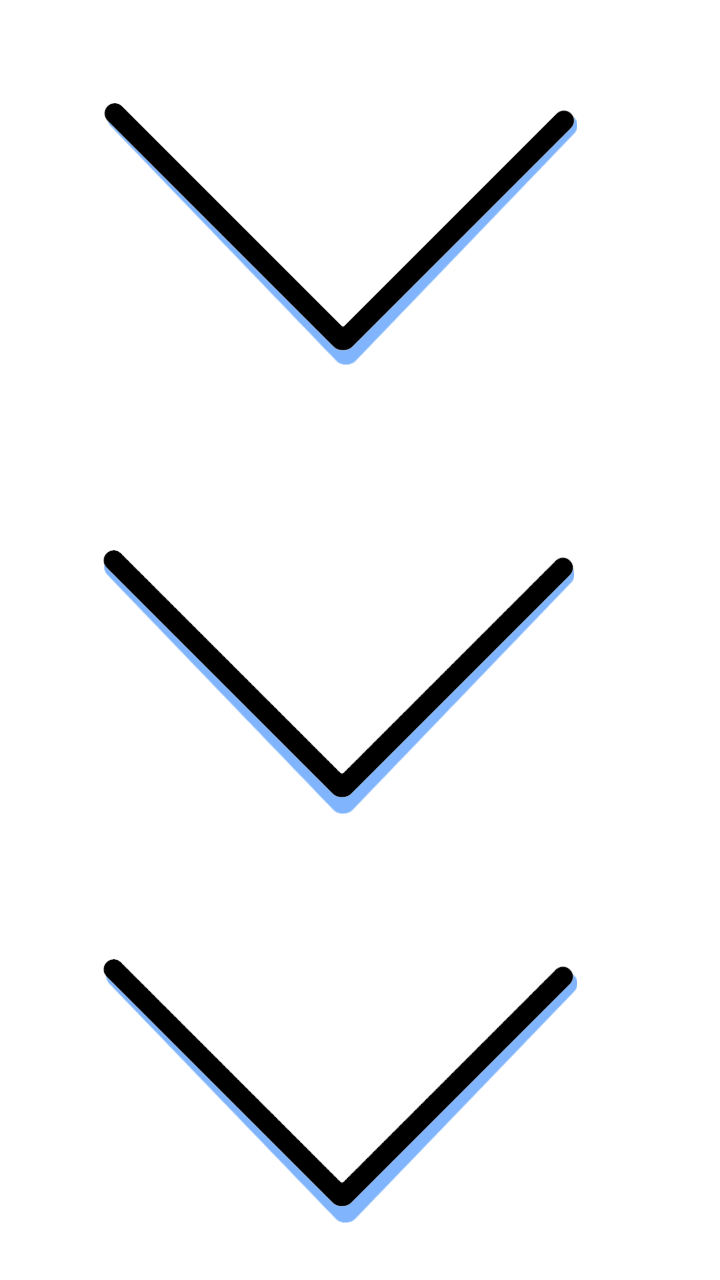
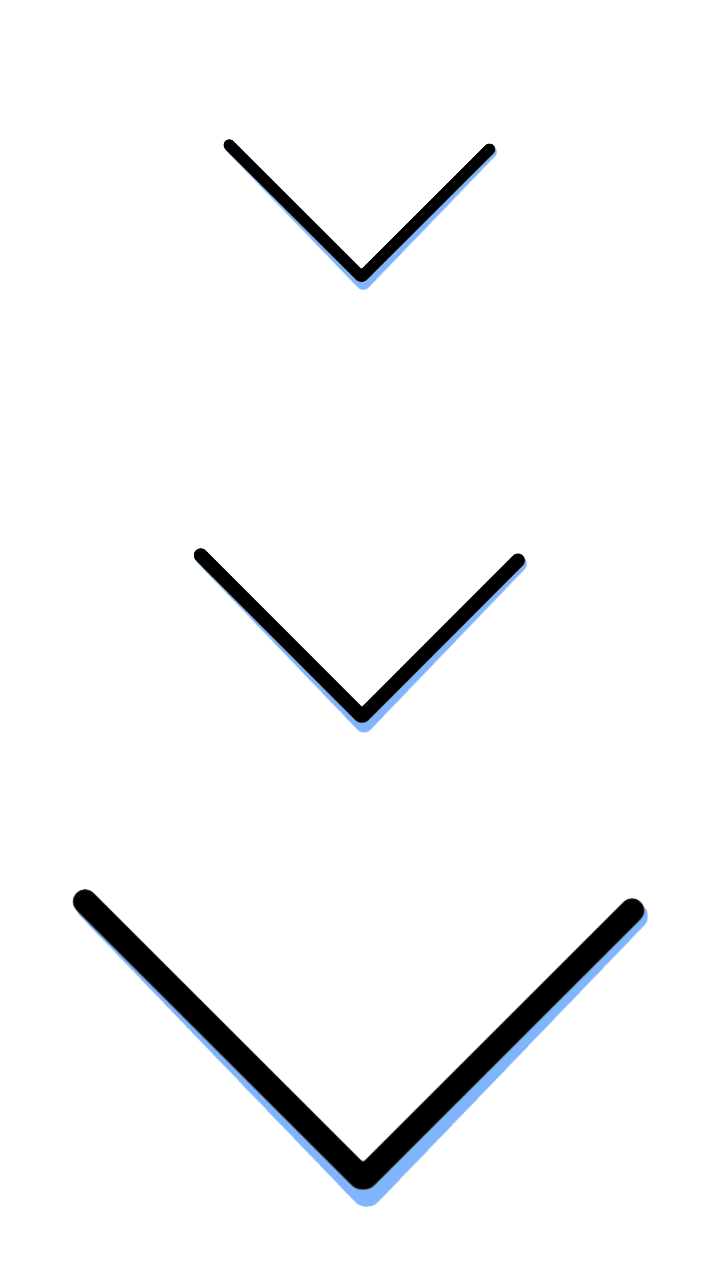
Index

diff --git a/index.html b/index.html
@@ -1,48 +1,164 @@
 <!DOCTYPE html>
 <html lang="en">
-<head>
-    <meta charset="UTF-8">
-    <meta http-equiv="X-UA-Compatible" content="IE=edge">
-    <meta name="viewport" content="width=device-width, initial-scale=1.0">
+  <head>
+    <meta charset="UTF-8" />
+    <meta http-equiv="X-UA-Compatible" content="IE=edge" />
+    <meta name="viewport" content="width=device-width, initial-scale=1.0" />
     <title>Document</title>
     <link href="./node_modules/bootstrap/dist/css/bootstrap.min.css" rel="stylesheet"/>
-</head>
-<body>
+    <link rel="stylesheet" href="./node_modules/animate.css/animate.min.css">
+  </head>
+  <body>
     <!--Navbar-->
     <div class="row mb-2">
-        <nav class="navbar navbar-expand-lg navbar-light bg-light fixed-top">
-            <a class="navbar-brand " href="#"> <span class="p-5 font-weight-bold">JR</span> </a>
-            <button class="navbar-toggler me-5 mt-2" type="button" data-bs-toggle="collapse" data-bs-target="#navbar-elements" aria-controls="navbarNavAltMarkup" aria-expanded="false" aria-label="Toggle navigation">
-              <span class="navbar-toggler-icon"></span>
-            </button>
-    
-            <div class="collapse navbar-collapse justify-content-center" id="navbar-elements">
-              <div class="navbar-nav">
-                <a class="nav-item nav-link active" href="#">Home</a>
-                <a class="nav-item nav-link" href="#">Projects</a>
-                <a class="nav-item nav-link" href="#">Blog</a>
-                <a class="nav-item nav-link" href="#">About</a>
-                <a class="nav-item nav-link" href="#">Contact</a>
-              </div>
-            </div>
-          </nav>
+      <nav class="navbar navbar-expand-lg navbar-light bg-light fixed-top">
+        <a class="navbar-brand" href="#">
+          <span class="p-5 font-weight-bold">JR</span>
+        </a>
+        <button
+          class="navbar-toggler me-5 mt-2"
+          type="button"
+          data-bs-toggle="collapse"
+          data-bs-target="#navbar-elements"
+          aria-controls="navbarNavAltMarkup"
+          aria-expanded="false"
+          aria-label="Toggle navigation"
+        >
+          <span class="navbar-toggler-icon"></span>
+        </button>
+
+        <div
+          class="collapse navbar-collapse justify-content-center"
+          id="navbar-elements"
+        >
+          <div class="navbar-nav ps-2 col-3">
+            <a class="nav-item nav-link active" href="#"><span class="text-primary"><u>Home</u></span></a>
+            <a class="nav-item nav-link" href="#">Projects</a>
+            <a class="nav-item nav-link" href="#">Blog</a>
+            <a class="nav-item nav-link" href="#">About</a>
+            <a class="nav-item nav-link" href="#">Contact</a>
+          </div>
+        </div>
+      </nav>
     </div>
     <!--Main info-->
     <div class="container mt-5">
-                <div class="row py-5">
-                    <div class="col-md-6 my-5 py-5 d-flex align-items-center justify-content-center">
-                        <h1>&lt;p&gt; Bienvenido &lt;/p&gt;</h1>
-                    </div>
-                    <div class="col-md-6 text-center">
-                        <img src="imgs/profile.png" class="img-fluid"alt="">
-                    </div>
-                
-            </div>
-            
+      <div class="row py-5">
+        <div
+          class="col-md-6 my-5 py-5 d-flex align-items-center justify-content-center"
+        >
+          <h1>&lt;p&gt; Bienvenido &lt;/p&gt;</h1>
+        </div>
+        <div class="col-md-6 text-center">
+          <img src="imgs/profile.png" class="img-fluid animate__animated animate__fadeIn animate__delay-1s" data-toogle="animation" data-animation-start="onHover" data-animation-reset="true" data-animation="slide-right" alt="" />
+        </div>
+      </div>
     </div>
-      
-      
+
+    <!--flechas-->
+    <div class="container">
+      <div class="row">
+        <div class="col-md-6 text-center">
+          <img src="imgs/flechas.png" class="img-fluid w-50 animate__animated animate__slideInDown animate__slow" alt="" />
+        </div>
+        <div class="col-md-6"></div>
+      </div>
+    </div>
+
+    <!--About me-->
+    <div class="container">
+      <div class="row">
+        <div class="col-md-7 my-5">
+          <h1>About me...</h1>
+          <hr />
+          <p>
+            Lorem ipsum dolor sit amet, consectetur adipiscing elit. Proin id
+            placerat nunc. Suspendisse ultricies pharetra dolor, faucibus
+            bibendum arcu aliquam nec. Fusce mi justo, luctus ut justo vel,
+            mollis condimentum turpis. Quisque egestas venenatis tellus, quis
+            egestas risus rutrum at. Ut eget ligula nibh. Sed quis ex quam.
+            Aenean tempor semper nunc. Duis purus dui, consectetur semper
+            gravida nec, luctus ut nisl. Maecenas fermentum lobortis nibh, id
+            mollis mauris. Etiam placerat gravida sem, eu consequat tortor porta
+            vel. Nunc vel orci consectetur, pretium libero non, eleifend felis.
+            Morbi blandit nulla non accumsan dictum. Aliquam turpis risus,
+            tristique sed turpis sed, efficitur finibus risus. Vivamus augue
+            justo, ornare ac sollicitudin sed, mattis sit amet justo. Phasellus
+            vitae justo consequat augue porttitor consectetur.
+          </p>
+        </div>
+      </div>
+    </div>
+
+    <div class="container">
+      <div class="row">
+        <div class="col-md-5"></div>
+        <div class="col-md-7">
+          <img src="imgs/paisajes.jpg" class="rounded img-fluid" alt="" />
+        </div>
+      </div>
+    </div>
+
+    <div class="container">
+      <div class="row">
+        <div class="col-md-7 my-5">
+          <p>
+            <span><h1>1.</h1></span> Lorem ipsum dolor sit amet, consectetur
+            adipiscing elit. Proin id placerat nunc. Suspendisse ultricies
+            pharetra dolor, faucibus bibendum arcu aliquam nec. Fusce mi justo,
+            luctus ut justo vel, mollis condimentum turpis. Quisque egestas
+            venenatis tellus, quis egestas risus rutrum at. Ut eget ligula nibh.
+            Sed quis ex quam. Aenean tempor semper nunc. Duis purus dui,
+            consectetur semper gravida nec, luctus ut nisl. <br /><br />
+            <span><h1>2.</h1></span> Lorem ipsum dolor sit amet, consectetur
+            adipiscing elit. Proin id placerat nunc. Suspendisse ultricies
+            pharetra dolor, faucibus bibendum arcu aliquam nec. Fusce mi justo,
+            luctus ut justo vel, mollis condimentum turpis. Quisque egestas
+            venenatis tellus, quis egestas risus rutrum at. Ut eget ligula nibh.
+            Sed quis ex quam. Aenean tempor semper nunc. Duis purus dui,
+            consectetur semper gravida nec, luctus ut nisl. <br /><br />
+            <span><h1>3.</h1></span> Lorem ipsum dolor sit amet, consectetur
+            adipiscing elit. Proin id placerat nunc. Suspendisse ultricies
+            pharetra dolor, faucibus bibendum arcu aliquam nec. Fusce mi justo,
+            luctus ut justo vel, mollis condimentum turpis. Quisque egestas
+            venenatis tellus, quis egestas risus rutrum at. Ut eget ligula nibh.
+            Sed quis ex quam. Aenean tempor semper nunc. Duis purus dui,
+            consectetur semper gravida nec, luctus ut nisl.
+          </p>
+        </div>
+      </div>
+    </div>
+
+    <!-- Footer -->
+    <footer
+      class="text-center text-white mt-5"
+      style="background-color: #0a4275"
+    >
+      <!-- Grid container -->
+      <div class="container p-4 pb-0">
+        <!-- Section: CTA -->
+        <section class="">
+          <p class="d-flex justify-content-center align-items-center">
+            <span class="me-3">Footer</span>
+            <button
+              data-mdb-ripple-init
+              type="button"
+              class="btn btn-outline-light btn-rounded">
+              Sign up!
+            </button>
+          </p>
+        </section>
+      </div>
+
+      <!-- Copyright -->
+      <div class="text-center p-3" style="background-color: rgba(0, 0, 0, 0.2)">
+        © 2024 Copyright: Joselito
+      </div>
+      <!-- Copyright -->
+    </footer>
+    <!-- Footer -->
+
     <!-- Antes de cerrar el body de tu HTML -->
     <script src="./node_modules/bootstrap/dist/js/bootstrap.bundle.min.js"></script>
-</body>
+  </body>
 </html>

diff --git a/animacion.html b/animacion.html
@@ -1,0 +1,22 @@
+<!DOCTYPE html>
+<html lang="en">
+<head>
+  <meta charset="UTF-8">
+  <meta name="viewport" content="width=device-width, initial-scale=1.0">
+  <title>Bootstrap Image Animation</title>
+  <!-- Bootstrap CSS -->
+  <link rel="stylesheet" href="https://stackpath.bootstrapcdn.com/bootstrap/4.5.2/css/bootstrap.min.css">
+  <!-- Animate.css -->
+  <link rel="stylesheet" href="https://cdnjs.cloudflare.com/ajax/libs/animate.css/4.1.1/animate.min.css">
+</head>
+<body>
+  <div class="container">
+    <div class="row">
+      <div class="col-md-6 text-center">
+        <img src="imgs/profile.png" class="img-fluid animate__animated animate__slideInRight" alt="" />
+      </div>
+    </div>
+  </div>
+
+</body>
+</html>
